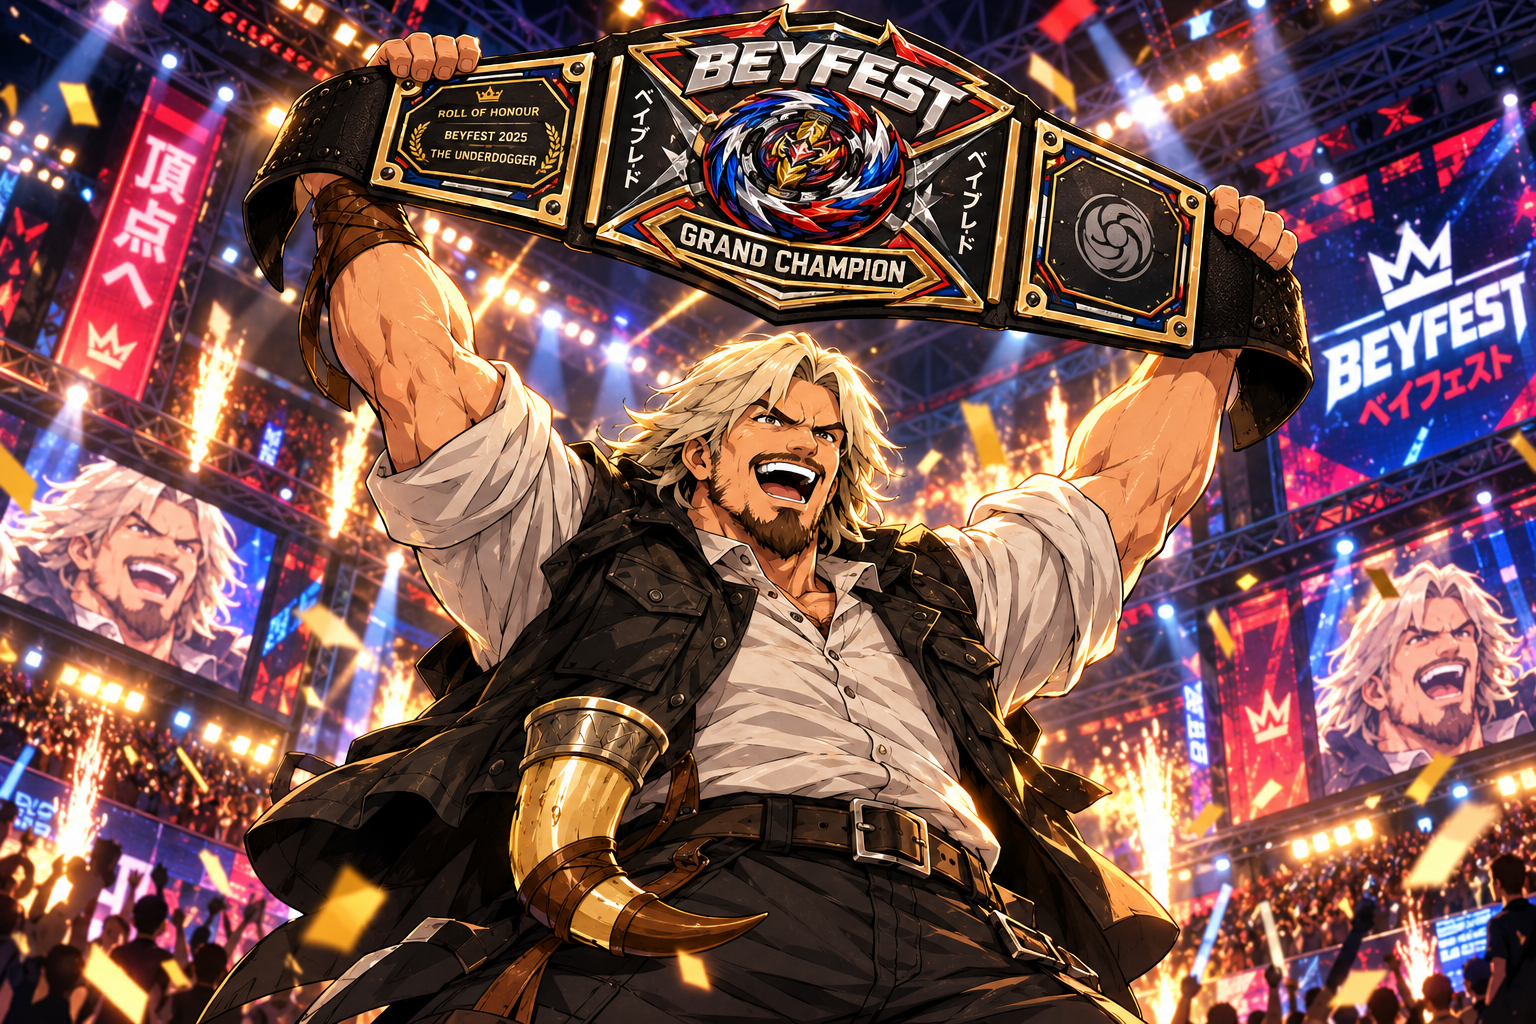
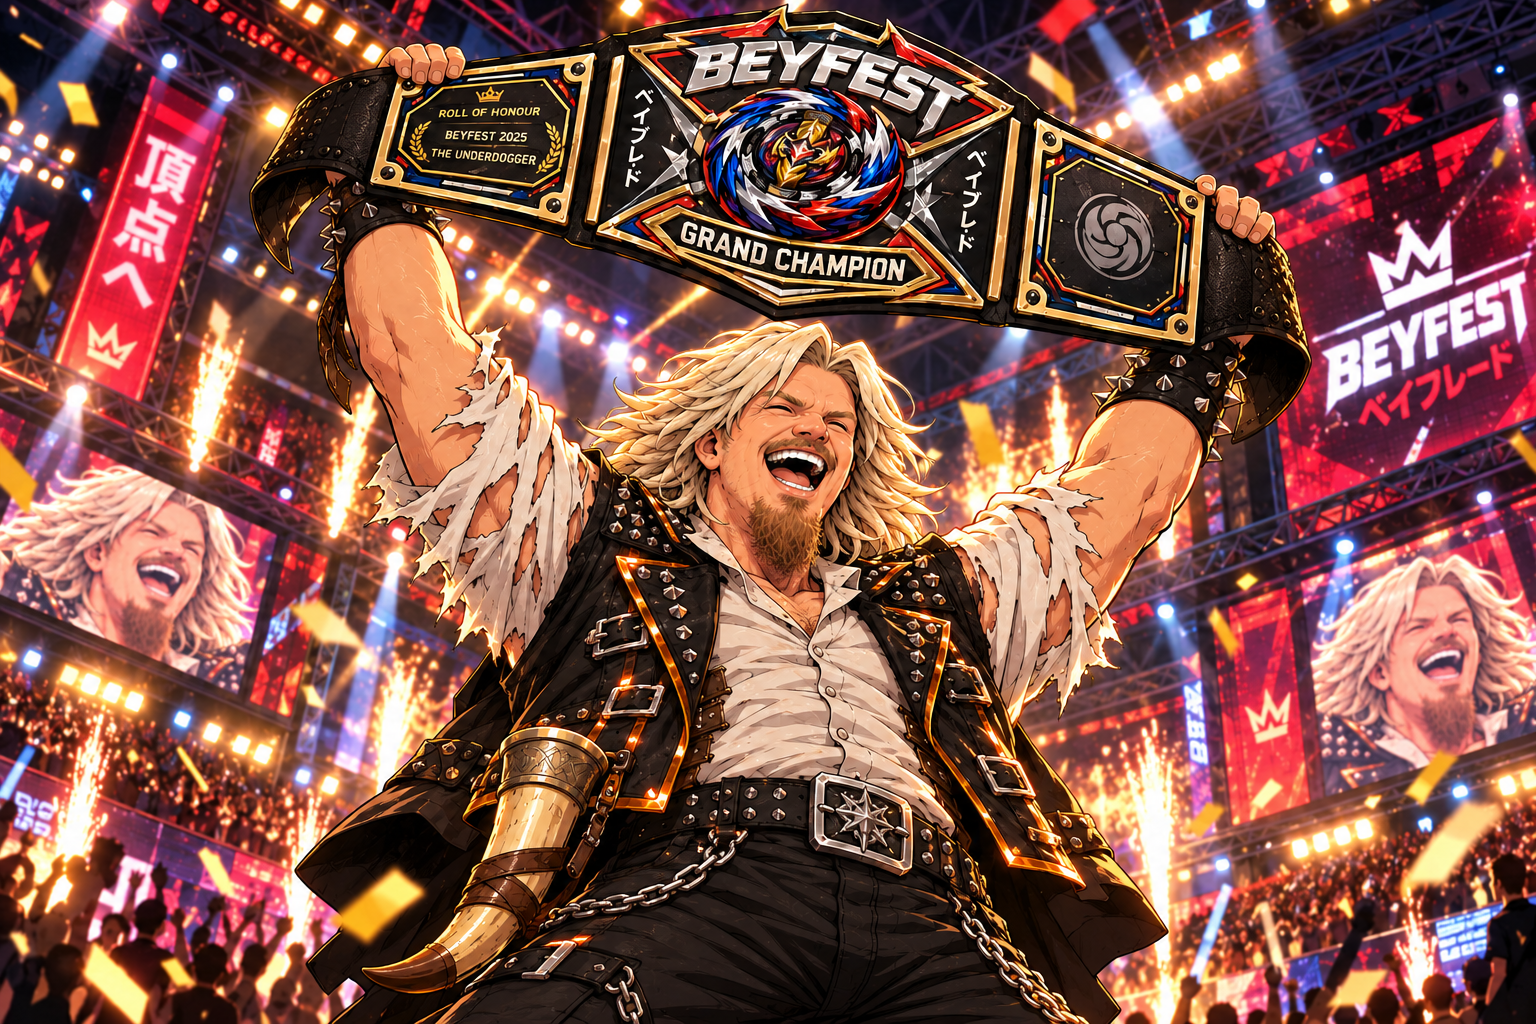
new Underdogger victory and royale victory images

diff --git a/fighter-art/POSE-PLAN.md b/fighter-art/POSE-PLAN.md
@@ -15,8 +15,8 @@ not everyone smiles.
   created recently and are fine; their plans below are not needed.
 - **Likeness pass (2026-10-30):** the Pugilist (face, hair and build only).
 - **Redone on experiment/fighter-art, not merged:** the Modsmith.
-- **Still to do:** the Beanblader (added back 2026-10-30: the user says his likeness
-  is off) and the Underdogger.
+- **Redone 2026-10-30:** the Beanblader and the Underdogger. Every fighter is now
+  done.
 
 Only the Stancemancer and the Joyzerker have written bios (on the public site).
 The other poses are drawn from the fighter's name and current outfit; anything
@@ -137,7 +137,7 @@ twelve versions of one shot.
 - **Camera:** slightly low, three-quarter.
 - **Outfit, leaning cyberpunk (user's choice), same silhouette:** the cream shirt with rolled sleeves becomes tech fabric with panel seams; the dark waistcoat gets glowing bronze and orange trim; dark trousers, boots, a belt.
 - **Mood:** never count him out.
-- **Status:** **approved 2026-10-30** as `approved/underdogger.png` (version E): the face moved toward his photos (rounder, crinkled laughing eyes, a longer chin beard), tall heroic proportions, a heavy-metal edge (studded leather waistcoat, spiked wristbands, a belt chain, torn sleeves) over the cyberpunk lean, and a huge foreground Beyblade. History in `prompts/underdogger.md`. In the app with a new face point; the victory images still need redoing.
+- **Status:** **approved 2026-10-30** as `approved/underdogger.png` (version E): the face moved toward his photos (rounder, crinkled laughing eyes, a longer chin beard), tall heroic proportions, a heavy-metal edge (studded leather waistcoat, spiked wristbands, a belt chain, torn sleeves) over the cyberpunk lean, and a huge foreground Beyblade. History in `prompts/underdogger.md`. In the app with a new face point; both victory images redone (2026-10-30).
 - **Likeness (user, 2026-10-30):** his photos are old and poor; his CURRENT action and victory art already matches how he looks now, so use that art as the likeness reference (as with the Stancemancer): long, swept-back light blond hair to the jaw, a short brown beard and moustache, dark brown eyes, a rugged grin.
 - **Current art:** a drinking horn in one hand and the fist-at-camera lunge with the launcher (the lunge is the Pugilist's), a cream shirt with rolled sleeves under a dark waistcoat.
 

diff --git a/fighter-art/prompts/underdogger.md b/fighter-art/prompts/underdogger.md
@@ -43,7 +43,10 @@ features. Keep the long hair from his current art (that's his look now).
 | D | Edit of C: C overcorrected into a dwarf (big head, short arms); asked for a tall, ~7-heads-tall heroic build with long arms and legs and the head back to B's size | Tall, long-limbed, a smaller head on a visible neck, a wide planted stance; face, horn, launcher and Beyblade kept; transparent |
 | E | Edit of D: a touch more heavy metal (studded black leather waistcoat, spiked wristbands, a belt chain, a studded belt, torn sleeves, wilder hair); the Beyblade angled at the camera, big in the foreground | Metal look landed with the glowing trim kept; the Beyblade is now huge in the lower right with forced perspective; face and proportions kept; transparent background (the bottom corners are opaque only because the leg and the vortex run off the edge) |
 
-## Victory images (2026-10-30)
+## Victory images (2026-10-30): approved
+
+Approved first time: `approved/victory-underdogger.png`,
+`approved/royale-victory-underdogger.png`.
 
 Recipe as for the Pugilist: template, approved cut-out, a close-up of the approved
 head (`candidates/underdogger-E-face.png`) as the face and rendering reference, and
